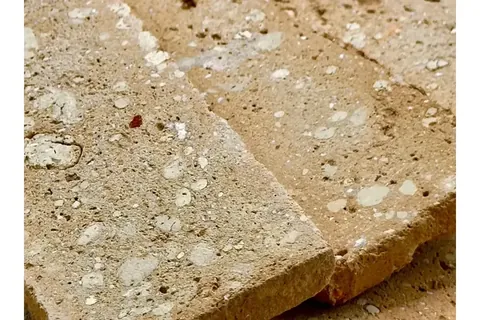
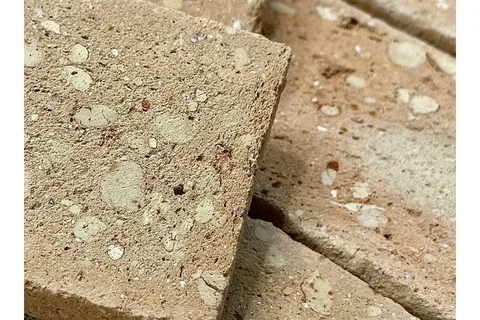
fix: Eco Palha sumido da nav do Rusticatto Palha + reagrupa Rusticattos + troca capa
BUG CORRIGIDO: pagina do Rusticatto Palha (duplicada do Eco Palha) tinha
perdido a entrada 'Eco Palha' na propria lista de navegacao - a
duplicacao converteu o link ativo de si-mesmo (Eco Palha -> Rusticatto
Palha) mas nunca recriou uma entrada nova apontando de volta pro Eco
Palha como produto irmao. Reportado pelo Rafael ('quando clico em
Rusticatto Palha, o Eco Palha some da lista').

Aproveitado pra aplicar de uma vez o pedido de reagrupar os Rusticatto:
nova ordem em toda nav de Brick (17 paginas de produto + texturas.html
+ quiz.html) - nao-Rusticatto primeiro (ordem ja existente: Eco Palha,
Lumus, Mescla Prime, Natura, Rosso Prime, Terra do Cerrado), depois
todos os Rusticatto juntos em ordem alfabetica (Fume, Palha, Rosso,
Sertao, Terra Negra).

IMAGEM: trocado o conteudo do arquivo de capa do Rusticatto Palha pelo
da imagem 2 (mesmas fotos do Eco Palha, so pra dar sensacao visual de
produto diferente ja que sao literalmente as mesmas fotos). Como a capa
e referenciada em varios lugares do site (meta tags, card do
texturas.html, thumb do quiz.html), a troca se propaga sozinha sem
precisar editar cada referencia. Miniatura regenerada a partir da nova
capa pra nao ficar inconsistente.

Investigacao anterior (relato de 'pagina em branco') nao encontrou bug
de codigo - imagens, estrutura HTML e sintaxe JS todas validas nas duas
paginas - provavelmente delay de propagacao do deploy.

diff --git a/texturas.html b/texturas.html
@@ -263,21 +263,7 @@ height="0" width="0" style="display:none;visibility:hidden"></iframe></noscript>
             </div>
           </a>
 
-          <a href="produto-brick-rusticatto-palha.html" class="tex-card reveal" data-linha="brick" data-ambiente="interno externo" data-tom="claro" data-preco="150a200">
-            <div class="tex-card__preview" data-bg="brick-rusticatto-palha-frontal.webp"></div>
-            <div class="tex-card__info">
-<span class="tex-card__familia">Brick</span>
-              <h3 class="tex-card__title">Rusticatto Palha</h3>
-              <div class="tex-card__specs">
-                <span><i class="ti ti-brush" aria-hidden="true"></i> Rústico alto</span>
-                <span><i class="ti ti-shield-check" aria-hidden="true"></i> Classe A</span>
-                <span><i class="ti ti-home" aria-hidden="true"></i> Interno e externo</span>
-              </div>
-              <p class="tex-card__price">R$ 169,90 <span>/m²</span></p>
-                <span class="tex-card__parcelas">4x de R$ 42,48 sem juros</span>
-                            <span class="tex-card__link">Ver produto <i class="ti ti-arrow-right" aria-hidden="true"></i></span>
-            </div>
-          </a>
+          
 
           <a href="produto-brick-lumus.html" class="tex-card reveal" data-linha="brick" data-ambiente="interno externo" data-tom="medio" data-preco="150a200">
             <div class="tex-card__preview" data-bg="brick-lumus-frontal.webp"></div>
@@ -295,6 +281,8 @@ height="0" width="0" style="display:none;visibility:hidden"></iframe></noscript>
             </div>
           </a>
 
+          
+
           <a href="produto-brick-mescla-prime.html" class="tex-card reveal" data-linha="brick" data-ambiente="interno externo" data-tom="medio" data-preco="150a200">
             <div class="tex-card__preview" data-bg="brick-mescla-prime-frontal.webp"></div>
             <div class="tex-card__info">
@@ -310,6 +298,8 @@ height="0" width="0" style="display:none;visibility:hidden"></iframe></noscript>
                             <span class="tex-card__link">Ver produto <i class="ti ti-arrow-right" aria-hidden="true"></i></span>
             </div>
           </a>
+
+          
 
           <a href="produto-brick-natura.html" class="tex-card reveal" data-linha="brick" data-ambiente="interno externo" data-tom="medio" data-preco="ate150">
             <div class="tex-card__preview" data-bg="brick-natura-frontal.webp"></div>
@@ -327,6 +317,8 @@ height="0" width="0" style="display:none;visibility:hidden"></iframe></noscript>
             </div>
           </a>
 
+          
+
           <a href="produto-brick-rosso-prime.html" class="tex-card reveal" data-linha="brick" data-ambiente="interno externo" data-tom="medio" data-preco="ate150">
             <div class="tex-card__preview" data-bg="brick-rosso-prime-frontal.webp"></div>
             <div class="tex-card__info">
@@ -339,6 +331,24 @@ height="0" width="0" style="display:none;visibility:hidden"></iframe></noscript>
               </div>
               <p class="tex-card__price">R$ 142,90 <span>/m²</span></p>
                 <span class="tex-card__parcelas">4x de R$ 35,73 sem juros</span>
+                            <span class="tex-card__link">Ver produto <i class="ti ti-arrow-right" aria-hidden="true"></i></span>
+            </div>
+          </a>
+
+          
+
+          <a href="produto-brick-terra-cerrado.html" class="tex-card reveal" data-linha="brick" data-ambiente="interno externo" data-tom="medio" data-preco="ate150">
+            <div class="tex-card__preview" data-bg="brick-terra-cerrado-frontal.webp"></div>
+            <div class="tex-card__info">
+<span class="tex-card__familia">Brick</span>
+              <h3 class="tex-card__title">Terra do Cerrado</h3>
+              <div class="tex-card__specs">
+                <span><i class="ti ti-brush" aria-hidden="true"></i> Natural</span>
+                <span><i class="ti ti-shield-check" aria-hidden="true"></i> Classe A</span>
+                <span><i class="ti ti-home" aria-hidden="true"></i> Interno e externo</span>
+              </div>
+              <p class="tex-card__price">R$ 148,90 <span>/m²</span></p>
+                <span class="tex-card__parcelas">4x de R$ 37,23 sem juros</span>
                             <span class="tex-card__link">Ver produto <i class="ti ti-arrow-right" aria-hidden="true"></i></span>
             </div>
           </a>
@@ -359,6 +369,26 @@ height="0" width="0" style="display:none;visibility:hidden"></iframe></noscript>
             </div>
           </a>
 
+          
+
+          <a href="produto-brick-rusticatto-palha.html" class="tex-card reveal" data-linha="brick" data-ambiente="interno externo" data-tom="claro" data-preco="150a200">
+            <div class="tex-card__preview" data-bg="brick-rusticatto-palha-frontal.webp"></div>
+            <div class="tex-card__info">
+<span class="tex-card__familia">Brick</span>
+              <h3 class="tex-card__title">Rusticatto Palha</h3>
+              <div class="tex-card__specs">
+                <span><i class="ti ti-brush" aria-hidden="true"></i> Rústico alto</span>
+                <span><i class="ti ti-shield-check" aria-hidden="true"></i> Classe A</span>
+                <span><i class="ti ti-home" aria-hidden="true"></i> Interno e externo</span>
+              </div>
+              <p class="tex-card__price">R$ 169,90 <span>/m²</span></p>
+                <span class="tex-card__parcelas">4x de R$ 42,48 sem juros</span>
+                            <span class="tex-card__link">Ver produto <i class="ti ti-arrow-right" aria-hidden="true"></i></span>
+            </div>
+          </a>
+
+          
+
           <a href="produto-brick-rusticatto-rosso.html" class="tex-card reveal" data-linha="brick" data-ambiente="interno externo" data-tom="medio" data-preco="150a200">
             <div class="tex-card__preview" data-bg="brick-rusticatto-rosso-frontal.webp"></div>
             <div class="tex-card__info">
@@ -374,6 +404,8 @@ height="0" width="0" style="display:none;visibility:hidden"></iframe></noscript>
                             <span class="tex-card__link">Ver produto <i class="ti ti-arrow-right" aria-hidden="true"></i></span>
             </div>
           </a>
+
+          
 
           <a href="produto-brick-rusticatto-sertao.html" class="tex-card reveal" data-linha="brick" data-ambiente="interno externo" data-tom="medio" data-preco="150a200">
             <div class="tex-card__preview" data-bg="brick-rusticatto-sertao-frontal.webp"></div>
@@ -391,6 +423,8 @@ height="0" width="0" style="display:none;visibility:hidden"></iframe></noscript>
             </div>
           </a>
 
+          
+
           <a href="produto-brick-rusticatto-terra-negra.html" class="tex-card reveal" data-linha="brick" data-ambiente="interno externo" data-tom="escuro" data-preco="150a200">
             <div class="tex-card__preview" data-bg="brick-rusticatto-terra-negra-frontal.webp"></div>
             <div class="tex-card__info">
@@ -407,21 +441,7 @@ height="0" width="0" style="display:none;visibility:hidden"></iframe></noscript>
             </div>
           </a>
 
-          <a href="produto-brick-terra-cerrado.html" class="tex-card reveal" data-linha="brick" data-ambiente="interno externo" data-tom="medio" data-preco="ate150">
-            <div class="tex-card__preview" data-bg="brick-terra-cerrado-frontal.webp"></div>
-            <div class="tex-card__info">
-<span class="tex-card__familia">Brick</span>
-              <h3 class="tex-card__title">Terra do Cerrado</h3>
-              <div class="tex-card__specs">
-                <span><i class="ti ti-brush" aria-hidden="true"></i> Natural</span>
-                <span><i class="ti ti-shield-check" aria-hidden="true"></i> Classe A</span>
-                <span><i class="ti ti-home" aria-hidden="true"></i> Interno e externo</span>
-              </div>
-              <p class="tex-card__price">R$ 148,90 <span>/m²</span></p>
-                <span class="tex-card__parcelas">4x de R$ 37,23 sem juros</span>
-                            <span class="tex-card__link">Ver produto <i class="ti ti-arrow-right" aria-hidden="true"></i></span>
-            </div>
-          </a>
+          
 
 
           <a href="produto-cimenticio-alpino.html" class="tex-card reveal" data-linha="cimenticio" data-ambiente="interno externo" data-tom="claro" data-preco="150a200">

diff --git a/quiz.html b/quiz.html
@@ -401,16 +401,16 @@
     // ── Dataset real de produtos (extraído de texturas.html) ──
     var PRODUTOS = [
       {href:"produto-brick-eco-palha.html", nome:"Eco Palha", linha:"brick", ambiente:["interno","externo"], tom:"claro", preco:"150a200", precoTxt:"153,90", thumb:"brick-eco-palha-frontal-thumb.webp"},
-      {href:"produto-brick-rusticatto-palha.html", nome:"Rusticatto Palha", linha:"brick", ambiente:["interno","externo"], tom:"claro", preco:"150a200", precoTxt:"169,90", thumb:"brick-rusticatto-palha-frontal-thumb.webp"},
       {href:"produto-brick-lumus.html", nome:"Lumus", linha:"brick", ambiente:["interno","externo"], tom:"medio", preco:"150a200", precoTxt:"164,90", thumb:"brick-lumus-frontal-thumb.webp"},
       {href:"produto-brick-mescla-prime.html", nome:"Mescla Prime", linha:"brick", ambiente:["interno","externo"], tom:"medio", preco:"150a200", precoTxt:"153,90", thumb:"brick-mescla-prime-frontal-thumb.webp"},
       {href:"produto-brick-natura.html", nome:"Natura", linha:"brick", ambiente:["interno","externo"], tom:"medio", preco:"ate150", precoTxt:"104,90", thumb:"brick-natura-frontal-thumb.webp"},
       {href:"produto-brick-rosso-prime.html", nome:"Rosso Prime", linha:"brick", ambiente:["interno","externo"], tom:"medio", preco:"ate150", precoTxt:"142,90", thumb:"brick-rosso-prime-frontal-thumb.webp"},
+      {href:"produto-brick-terra-cerrado.html", nome:"Terra do Cerrado", linha:"brick", ambiente:["interno","externo"], tom:"medio", preco:"ate150", precoTxt:"148,90", thumb:"brick-terra-cerrado-frontal-thumb.webp"},
       {href:"produto-brick-rusticatto-fume.html", nome:"Rusticatto Fumê", linha:"brick", ambiente:["interno","externo"], tom:"escuro", preco:"150a200", precoTxt:"186,90", thumb:"brick-rusticatto-fume-frontal-thumb.webp"},
+      {href:"produto-brick-rusticatto-palha.html", nome:"Rusticatto Palha", linha:"brick", ambiente:["interno","externo"], tom:"claro", preco:"150a200", precoTxt:"169,90", thumb:"brick-rusticatto-palha-frontal-thumb.webp"},
       {href:"produto-brick-rusticatto-rosso.html", nome:"Rusticatto Rosso", linha:"brick", ambiente:["interno","externo"], tom:"medio", preco:"150a200", precoTxt:"159,90", thumb:"brick-rusticatto-rosso-frontal-thumb.webp"},
       {href:"produto-brick-rusticatto-sertao.html", nome:"Rusticatto do Sertão", linha:"brick", ambiente:["interno","externo"], tom:"medio", preco:"150a200", precoTxt:"164,90", thumb:"brick-rusticatto-sertao-frontal-thumb.webp"},
       {href:"produto-brick-rusticatto-terra-negra.html", nome:"Rusticatto Terra Negra", linha:"brick", ambiente:["interno","externo"], tom:"escuro", preco:"150a200", precoTxt:"197,90", thumb:"brick-rusticatto-terra-negra-frontal-thumb.webp"},
-      {href:"produto-brick-terra-cerrado.html", nome:"Terra do Cerrado", linha:"brick", ambiente:["interno","externo"], tom:"medio", preco:"ate150", precoTxt:"148,90", thumb:"brick-terra-cerrado-frontal-thumb.webp"},
       {href:"produto-cimenticio-alpino.html", nome:"Alpino", linha:"cimenticio", ambiente:["interno","externo"], tom:"claro", preco:"150a200", precoTxt:"186,90", thumb:"cimenticio-alpino-frontal-thumb.webp"},
       {href:"produto-cimenticio-brisa.html", nome:"Brisa", linha:"cimenticio", ambiente:["interno","externo"], tom:"medio", preco:"150a200", precoTxt:"186,90", thumb:"cimenticio-brisa-frontal-thumb.webp"},
       {href:"produto-cimenticio-urban.html", nome:"Urban", linha:"cimenticio", ambiente:["interno","externo"], tom:"escuro", preco:"150a200", precoTxt:"186,90", thumb:"cimenticio-urban-frontal-thumb.webp"},

diff --git a/produto-brick-rusticatto-palha.html b/produto-brick-rusticatto-palha.html
@@ -579,16 +579,17 @@ height="0" width="0" style="display:none;visibility:hidden"></iframe></noscript>
     <details class="sidebar-cat" open>
       <summary class="sidebar-cat__title">Brick</summary>
       <ul class="sidebar-cat__list">
-        <li><a href="produto-brick-rusticatto-palha.html" class="active">Rusticatto Palha</a></li>
+        <li><a href="produto-brick-eco-palha.html">Eco Palha</a></li>
         <li><a href="produto-brick-lumus.html">Lumus</a></li>
         <li><a href="produto-brick-mescla-prime.html">Mescla Prime</a></li>
         <li><a href="produto-brick-natura.html">Natura</a></li>
         <li><a href="produto-brick-rosso-prime.html">Rosso Prime</a></li>
-        <li><a href="produto-brick-rusticatto-sertao.html">Rusticatto do Sertão</a></li>
-        <li><a href="produto-brick-rusticatto-fume.html">Rusticatto Fumê</a></li>
-        <li><a href="produto-brick-rusticatto-rosso.html">Rusticatto Rosso</a></li>
-        <li><a href="produto-brick-rusticatto-terra-negra.html">Rusticatto Terra Negra</a></li>
         <li><a href="produto-brick-terra-cerrado.html">Terra do Cerrado</a></li>
+        <li><a href="produto-brick-rusticatto-fume.html">Rusticatto Fumê</a></li>
+        <li><a href="produto-brick-rusticatto-palha.html" class="active">Rusticatto Palha</a></li>
+        <li><a href="produto-brick-rusticatto-rosso.html">Rusticatto Rosso</a></li>
+        <li><a href="produto-brick-rusticatto-sertao.html">Rusticatto do Sertão</a></li>
+        <li><a href="produto-brick-rusticatto-terra-negra.html">Rusticatto Terra Negra</a></li>
       </ul>
     </details>
     <details class="sidebar-cat">

diff --git a/produto-brick-rusticatto-fume.html b/produto-brick-rusticatto-fume.html
@@ -580,16 +580,16 @@ height="0" width="0" style="display:none;visibility:hidden"></iframe></noscript>
       <summary class="sidebar-cat__title">Brick</summary>
       <ul class="sidebar-cat__list">
         <li><a href="produto-brick-eco-palha.html">Eco Palha</a></li>
-        <li><a href="produto-brick-rusticatto-palha.html">Rusticatto Palha</a></li>
         <li><a href="produto-brick-lumus.html">Lumus</a></li>
         <li><a href="produto-brick-mescla-prime.html">Mescla Prime</a></li>
         <li><a href="produto-brick-natura.html">Natura</a></li>
         <li><a href="produto-brick-rosso-prime.html">Rosso Prime</a></li>
-        <li><a href="produto-brick-rusticatto-sertao.html">Rusticatto do Sertão</a></li>
-        <li><a href="produto-brick-rusticatto-fume.html" class="active">Rusticatto Fumê</a></li>
-        <li><a href="produto-brick-rusticatto-rosso.html">Rusticatto Rosso</a></li>
-        <li><a href="produto-brick-rusticatto-terra-negra.html">Rusticatto Terra Negra</a></li>
         <li><a href="produto-brick-terra-cerrado.html">Terra do Cerrado</a></li>
+        <li><a href="produto-brick-rusticatto-fume.html" class="active">Rusticatto Fumê</a></li>
+        <li><a href="produto-brick-rusticatto-palha.html">Rusticatto Palha</a></li>
+        <li><a href="produto-brick-rusticatto-rosso.html">Rusticatto Rosso</a></li>
+        <li><a href="produto-brick-rusticatto-sertao.html">Rusticatto do Sertão</a></li>
+        <li><a href="produto-brick-rusticatto-terra-negra.html">Rusticatto Terra Negra</a></li>
       </ul>
     </details>
     <details class="sidebar-cat">

diff --git a/produto-brick-rusticatto-rosso.html b/produto-brick-rusticatto-rosso.html
@@ -580,16 +580,16 @@ height="0" width="0" style="display:none;visibility:hidden"></iframe></noscript>
       <summary class="sidebar-cat__title">Brick</summary>
       <ul class="sidebar-cat__list">
         <li><a href="produto-brick-eco-palha.html">Eco Palha</a></li>
-        <li><a href="produto-brick-rusticatto-palha.html">Rusticatto Palha</a></li>
         <li><a href="produto-brick-lumus.html">Lumus</a></li>
         <li><a href="produto-brick-mescla-prime.html">Mescla Prime</a></li>
         <li><a href="produto-brick-natura.html">Natura</a></li>
         <li><a href="produto-brick-rosso-prime.html">Rosso Prime</a></li>
-        <li><a href="produto-brick-rusticatto-sertao.html">Rusticatto do Sertão</a></li>
-        <li><a href="produto-brick-rusticatto-fume.html">Rusticatto Fumê</a></li>
-        <li><a href="produto-brick-rusticatto-rosso.html" class="active">Rusticatto Rosso</a></li>
-        <li><a href="produto-brick-rusticatto-terra-negra.html">Rusticatto Terra Negra</a></li>
         <li><a href="produto-brick-terra-cerrado.html">Terra do Cerrado</a></li>
+        <li><a href="produto-brick-rusticatto-fume.html">Rusticatto Fumê</a></li>
+        <li><a href="produto-brick-rusticatto-palha.html">Rusticatto Palha</a></li>
+        <li><a href="produto-brick-rusticatto-rosso.html" class="active">Rusticatto Rosso</a></li>
+        <li><a href="produto-brick-rusticatto-sertao.html">Rusticatto do Sertão</a></li>
+        <li><a href="produto-brick-rusticatto-terra-negra.html">Rusticatto Terra Negra</a></li>
       </ul>
     </details>
     <details class="sidebar-cat">

diff --git a/produto-brick-rusticatto-sertao.html b/produto-brick-rusticatto-sertao.html
@@ -580,16 +580,16 @@ height="0" width="0" style="display:none;visibility:hidden"></iframe></noscript>
       <summary class="sidebar-cat__title">Brick</summary>
       <ul class="sidebar-cat__list">
         <li><a href="produto-brick-eco-palha.html">Eco Palha</a></li>
-        <li><a href="produto-brick-rusticatto-palha.html">Rusticatto Palha</a></li>
         <li><a href="produto-brick-lumus.html">Lumus</a></li>
         <li><a href="produto-brick-mescla-prime.html">Mescla Prime</a></li>
         <li><a href="produto-brick-natura.html">Natura</a></li>
         <li><a href="produto-brick-rosso-prime.html">Rosso Prime</a></li>
-        <li><a href="produto-brick-rusticatto-sertao.html" class="active">Rusticatto do Sertão</a></li>
-        <li><a href="produto-brick-rusticatto-fume.html">Rusticatto Fumê</a></li>
-        <li><a href="produto-brick-rusticatto-rosso.html">Rusticatto Rosso</a></li>
-        <li><a href="produto-brick-rusticatto-terra-negra.html">Rusticatto Terra Negra</a></li>
         <li><a href="produto-brick-terra-cerrado.html">Terra do Cerrado</a></li>
+        <li><a href="produto-brick-rusticatto-fume.html">Rusticatto Fumê</a></li>
+        <li><a href="produto-brick-rusticatto-palha.html">Rusticatto Palha</a></li>
+        <li><a href="produto-brick-rusticatto-rosso.html">Rusticatto Rosso</a></li>
+        <li><a href="produto-brick-rusticatto-sertao.html" class="active">Rusticatto do Sertão</a></li>
+        <li><a href="produto-brick-rusticatto-terra-negra.html">Rusticatto Terra Negra</a></li>
       </ul>
     </details>
     <details class="sidebar-cat">

diff --git a/produto-brick-rusticatto-terra-negra.html b/produto-brick-rusticatto-terra-negra.html
@@ -580,16 +580,16 @@ height="0" width="0" style="display:none;visibility:hidden"></iframe></noscript>
       <summary class="sidebar-cat__title">Brick</summary>
       <ul class="sidebar-cat__list">
         <li><a href="produto-brick-eco-palha.html">Eco Palha</a></li>
-        <li><a href="produto-brick-rusticatto-palha.html">Rusticatto Palha</a></li>
         <li><a href="produto-brick-lumus.html">Lumus</a></li>
         <li><a href="produto-brick-mescla-prime.html">Mescla Prime</a></li>
         <li><a href="produto-brick-natura.html">Natura</a></li>
         <li><a href="produto-brick-rosso-prime.html">Rosso Prime</a></li>
-        <li><a href="produto-brick-rusticatto-sertao.html">Rusticatto do Sertão</a></li>
-        <li><a href="produto-brick-rusticatto-fume.html">Rusticatto Fumê</a></li>
-        <li><a href="produto-brick-rusticatto-rosso.html">Rusticatto Rosso</a></li>
-        <li><a href="produto-brick-rusticatto-terra-negra.html" class="active">Rusticatto Terra Negra</a></li>
         <li><a href="produto-brick-terra-cerrado.html">Terra do Cerrado</a></li>
+        <li><a href="produto-brick-rusticatto-fume.html">Rusticatto Fumê</a></li>
+        <li><a href="produto-brick-rusticatto-palha.html">Rusticatto Palha</a></li>
+        <li><a href="produto-brick-rusticatto-rosso.html">Rusticatto Rosso</a></li>
+        <li><a href="produto-brick-rusticatto-sertao.html">Rusticatto do Sertão</a></li>
+        <li><a href="produto-brick-rusticatto-terra-negra.html" class="active">Rusticatto Terra Negra</a></li>
       </ul>
     </details>
     <details class="sidebar-cat">

diff --git a/produto-brick-eco-palha.html b/produto-brick-eco-palha.html
@@ -580,16 +580,16 @@ height="0" width="0" style="display:none;visibility:hidden"></iframe></noscript>
       <summary class="sidebar-cat__title">Brick</summary>
       <ul class="sidebar-cat__list">
         <li><a href="produto-brick-eco-palha.html" class="active">Eco Palha</a></li>
-        <li><a href="produto-brick-rusticatto-palha.html">Rusticatto Palha</a></li>
         <li><a href="produto-brick-lumus.html">Lumus</a></li>
         <li><a href="produto-brick-mescla-prime.html">Mescla Prime</a></li>
         <li><a href="produto-brick-natura.html">Natura</a></li>
         <li><a href="produto-brick-rosso-prime.html">Rosso Prime</a></li>
-        <li><a href="produto-brick-rusticatto-sertao.html">Rusticatto do Sertão</a></li>
-        <li><a href="produto-brick-rusticatto-fume.html">Rusticatto Fumê</a></li>
-        <li><a href="produto-brick-rusticatto-rosso.html">Rusticatto Rosso</a></li>
-        <li><a href="produto-brick-rusticatto-terra-negra.html">Rusticatto Terra Negra</a></li>
         <li><a href="produto-brick-terra-cerrado.html">Terra do Cerrado</a></li>
+        <li><a href="produto-brick-rusticatto-fume.html">Rusticatto Fumê</a></li>
+        <li><a href="produto-brick-rusticatto-palha.html">Rusticatto Palha</a></li>
+        <li><a href="produto-brick-rusticatto-rosso.html">Rusticatto Rosso</a></li>
+        <li><a href="produto-brick-rusticatto-sertao.html">Rusticatto do Sertão</a></li>
+        <li><a href="produto-brick-rusticatto-terra-negra.html">Rusticatto Terra Negra</a></li>
       </ul>
     </details>
     <details class="sidebar-cat">

diff --git a/produto-brick-lumus.html b/produto-brick-lumus.html
@@ -609,16 +609,16 @@ height="0" width="0" style="display:none;visibility:hidden"></iframe></noscript>
       <summary class="sidebar-cat__title">Brick</summary>
       <ul class="sidebar-cat__list">
         <li><a href="produto-brick-eco-palha.html">Eco Palha</a></li>
-        <li><a href="produto-brick-rusticatto-palha.html">Rusticatto Palha</a></li>
         <li><a href="produto-brick-lumus.html" class="active">Lumus</a></li>
         <li><a href="produto-brick-mescla-prime.html">Mescla Prime</a></li>
         <li><a href="produto-brick-natura.html">Natura</a></li>
         <li><a href="produto-brick-rosso-prime.html">Rosso Prime</a></li>
-        <li><a href="produto-brick-rusticatto-sertao.html">Rusticatto do Sertão</a></li>
-        <li><a href="produto-brick-rusticatto-fume.html">Rusticatto Fumê</a></li>
-        <li><a href="produto-brick-rusticatto-rosso.html">Rusticatto Rosso</a></li>
-        <li><a href="produto-brick-rusticatto-terra-negra.html">Rusticatto Terra Negra</a></li>
         <li><a href="produto-brick-terra-cerrado.html">Terra do Cerrado</a></li>
+        <li><a href="produto-brick-rusticatto-fume.html">Rusticatto Fumê</a></li>
+        <li><a href="produto-brick-rusticatto-palha.html">Rusticatto Palha</a></li>
+        <li><a href="produto-brick-rusticatto-rosso.html">Rusticatto Rosso</a></li>
+        <li><a href="produto-brick-rusticatto-sertao.html">Rusticatto do Sertão</a></li>
+        <li><a href="produto-brick-rusticatto-terra-negra.html">Rusticatto Terra Negra</a></li>
       </ul>
     </details>
     <details class="sidebar-cat">

diff --git a/produto-brick-mescla-prime.html b/produto-brick-mescla-prime.html
@@ -580,16 +580,16 @@ height="0" width="0" style="display:none;visibility:hidden"></iframe></noscript>
       <summary class="sidebar-cat__title">Brick</summary>
       <ul class="sidebar-cat__list">
         <li><a href="produto-brick-eco-palha.html">Eco Palha</a></li>
-        <li><a href="produto-brick-rusticatto-palha.html">Rusticatto Palha</a></li>
         <li><a href="produto-brick-lumus.html">Lumus</a></li>
         <li><a href="produto-brick-mescla-prime.html" class="active">Mescla Prime</a></li>
         <li><a href="produto-brick-natura.html">Natura</a></li>
         <li><a href="produto-brick-rosso-prime.html">Rosso Prime</a></li>
-        <li><a href="produto-brick-rusticatto-sertao.html">Rusticatto do Sertão</a></li>
-        <li><a href="produto-brick-rusticatto-fume.html">Rusticatto Fumê</a></li>
-        <li><a href="produto-brick-rusticatto-rosso.html">Rusticatto Rosso</a></li>
-        <li><a href="produto-brick-rusticatto-terra-negra.html">Rusticatto Terra Negra</a></li>
         <li><a href="produto-brick-terra-cerrado.html">Terra do Cerrado</a></li>
+        <li><a href="produto-brick-rusticatto-fume.html">Rusticatto Fumê</a></li>
+        <li><a href="produto-brick-rusticatto-palha.html">Rusticatto Palha</a></li>
+        <li><a href="produto-brick-rusticatto-rosso.html">Rusticatto Rosso</a></li>
+        <li><a href="produto-brick-rusticatto-sertao.html">Rusticatto do Sertão</a></li>
+        <li><a href="produto-brick-rusticatto-terra-negra.html">Rusticatto Terra Negra</a></li>
       </ul>
     </details>
     <details class="sidebar-cat">

diff --git a/produto-brick-natura.html b/produto-brick-natura.html
@@ -580,16 +580,16 @@ height="0" width="0" style="display:none;visibility:hidden"></iframe></noscript>
       <summary class="sidebar-cat__title">Brick</summary>
       <ul class="sidebar-cat__list">
         <li><a href="produto-brick-eco-palha.html">Eco Palha</a></li>
-        <li><a href="produto-brick-rusticatto-palha.html">Rusticatto Palha</a></li>
         <li><a href="produto-brick-lumus.html">Lumus</a></li>
         <li><a href="produto-brick-mescla-prime.html">Mescla Prime</a></li>
         <li><a href="produto-brick-natura.html" class="active">Natura</a></li>
         <li><a href="produto-brick-rosso-prime.html">Rosso Prime</a></li>
-        <li><a href="produto-brick-rusticatto-sertao.html">Rusticatto do Sertão</a></li>
-        <li><a href="produto-brick-rusticatto-fume.html">Rusticatto Fumê</a></li>
-        <li><a href="produto-brick-rusticatto-rosso.html">Rusticatto Rosso</a></li>
-        <li><a href="produto-brick-rusticatto-terra-negra.html">Rusticatto Terra Negra</a></li>
         <li><a href="produto-brick-terra-cerrado.html">Terra do Cerrado</a></li>
+        <li><a href="produto-brick-rusticatto-fume.html">Rusticatto Fumê</a></li>
+        <li><a href="produto-brick-rusticatto-palha.html">Rusticatto Palha</a></li>
+        <li><a href="produto-brick-rusticatto-rosso.html">Rusticatto Rosso</a></li>
+        <li><a href="produto-brick-rusticatto-sertao.html">Rusticatto do Sertão</a></li>
+        <li><a href="produto-brick-rusticatto-terra-negra.html">Rusticatto Terra Negra</a></li>
       </ul>
     </details>
     <details class="sidebar-cat">

diff --git a/produto-brick-rosso-prime.html b/produto-brick-rosso-prime.html
@@ -580,16 +580,16 @@ height="0" width="0" style="display:none;visibility:hidden"></iframe></noscript>
       <summary class="sidebar-cat__title">Brick</summary>
       <ul class="sidebar-cat__list">
         <li><a href="produto-brick-eco-palha.html">Eco Palha</a></li>
-        <li><a href="produto-brick-rusticatto-palha.html">Rusticatto Palha</a></li>
         <li><a href="produto-brick-lumus.html">Lumus</a></li>
         <li><a href="produto-brick-mescla-prime.html">Mescla Prime</a></li>
         <li><a href="produto-brick-natura.html">Natura</a></li>
         <li><a href="produto-brick-rosso-prime.html" class="active">Rosso Prime</a></li>
-        <li><a href="produto-brick-rusticatto-sertao.html">Rusticatto do Sertão</a></li>
-        <li><a href="produto-brick-rusticatto-fume.html">Rusticatto Fumê</a></li>
-        <li><a href="produto-brick-rusticatto-rosso.html">Rusticatto Rosso</a></li>
-        <li><a href="produto-brick-rusticatto-terra-negra.html">Rusticatto Terra Negra</a></li>
         <li><a href="produto-brick-terra-cerrado.html">Terra do Cerrado</a></li>
+        <li><a href="produto-brick-rusticatto-fume.html">Rusticatto Fumê</a></li>
+        <li><a href="produto-brick-rusticatto-palha.html">Rusticatto Palha</a></li>
+        <li><a href="produto-brick-rusticatto-rosso.html">Rusticatto Rosso</a></li>
+        <li><a href="produto-brick-rusticatto-sertao.html">Rusticatto do Sertão</a></li>
+        <li><a href="produto-brick-rusticatto-terra-negra.html">Rusticatto Terra Negra</a></li>
       </ul>
     </details>
     <details class="sidebar-cat">
